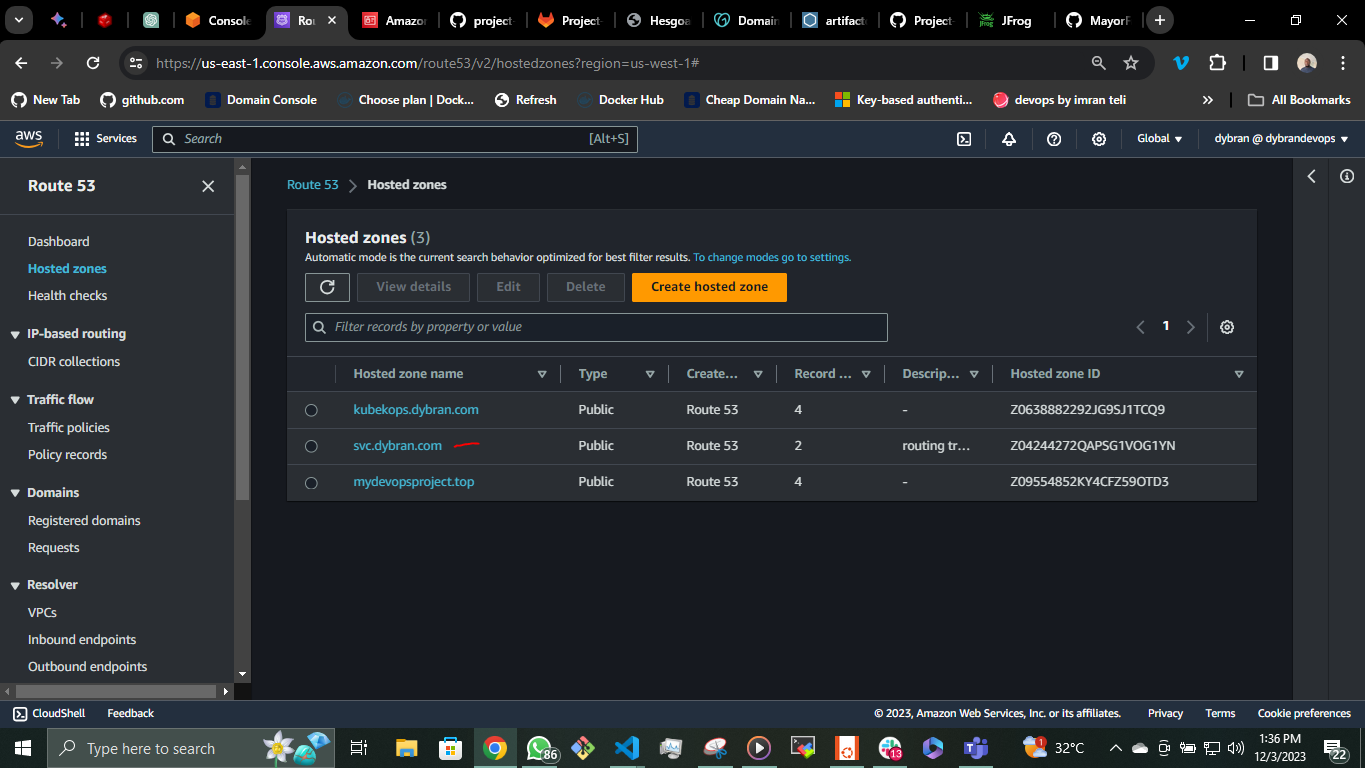
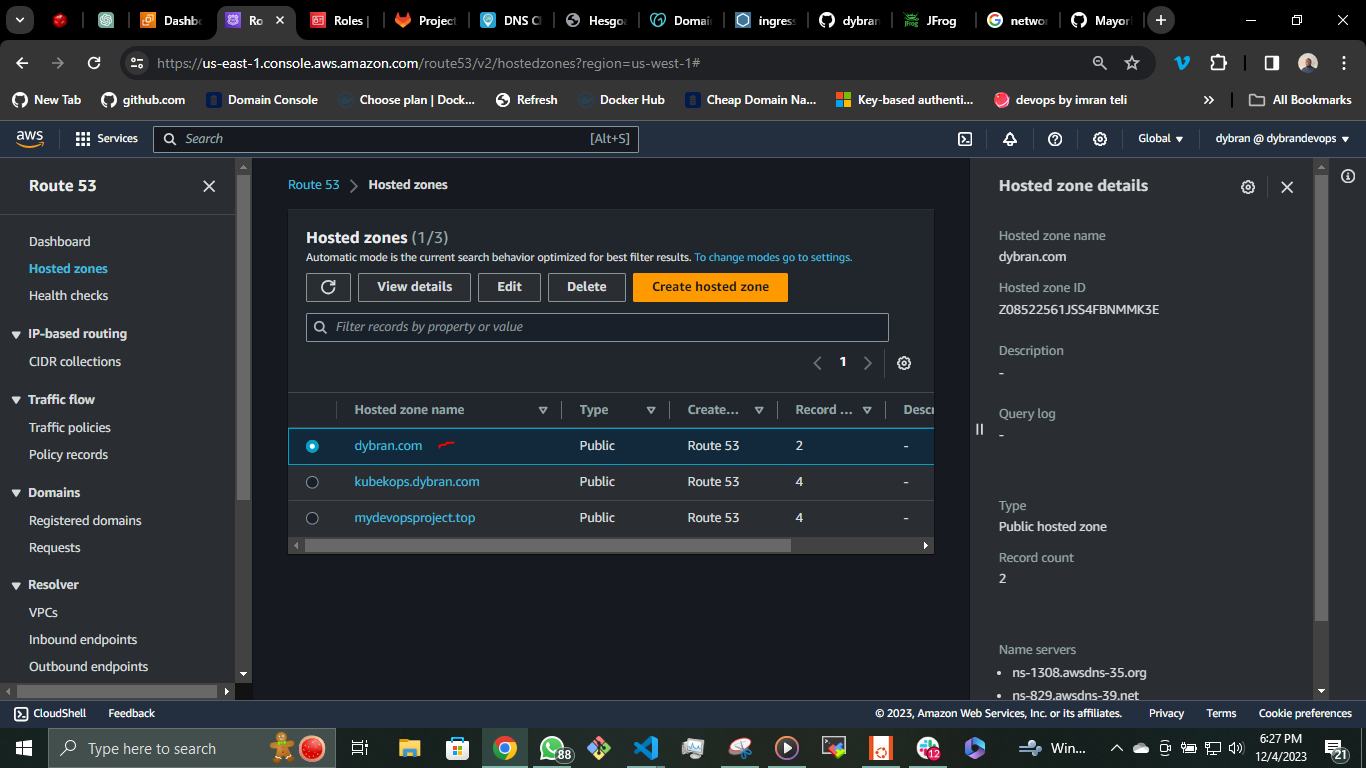
update

diff --git a/Project-25.md b/Project-25.md
@@ -399,6 +399,10 @@ If you go ahead to AWS console, copy the address in the EXTERNAL-IP column, and 
 
 ![](./images/24.PNG)
 
+If you go ahead to AWS console, copy the address in the EXTERNAL-IP column, and search for the loadbalancer, you will see an output like below
+
+![](./images/asa.PNG)
+
 Check the IngressClass that identifies this ingress controller.
 
 `$ kubectl get ingressclass -n ingress-nginx`
@@ -432,7 +436,7 @@ spec:
           service:
             name: artifactory-artifactory-nginx
             port:
-              number: 8082
+              number: 80
 EOF
 ```
 Create the ingress resource in the __tools__ namespace
@@ -465,6 +469,10 @@ You must have purchased a domain name from a domain provider and configured the 
 
 ![](./images/28.PNG)
 
+Ensure that you utilize the Nameservers specified in the hosted zone to set up the Nameservers within your DNS provider, such as GoDaddy, Namecheap, and others.
+
+![](./images/aqqq.PNG)
+![](./images/aq.PNG)
 
 __Create Route53 record__
 
@@ -479,11 +487,32 @@ If opting for the CNAME Method,
 
 Please verify the DNS record's successful propagation. Go to [DNS checker](https://dnschecker.org) and choose __CNAME__ to check the record. Make sure there are green ticks next to each location on the left-hand side. Please note that it may take some time for the changes to propagate.
 
-######![]()
+![](./images/29-1.PNG)
+
+We can also check this using the command
+
+`$ nslookup -type=ns tooling.artifactory.dybran.com`
+
+#########![]()
 
 __AWS Alias Method__
 
 In the create record section, type in the record name, and toggle the alias button to enable an alias. An alias is of A DNS record type which basically routes directly to the load balancer. In the choose endpoint bar, select __Alias__ to Application and Classic Load Balancer.
+
+
+__Accessing the application from the browser__
+
+Accessing the application through your browser
+Presently, our Kubernetes-hosted application is reachable from outside sources. When you visit your domain's specific URL - __tooling.artifactorydybran.com__, the artifactory application should be accessible.
+
+If you use Chrome as your browser, you might encounter a message indicating that the site is reachable but considered insecure. This occurs when the site lacks a trusted TLS/SSL certificate or doesn't possess one at all.
+
+![](./images/30.PNG)
+
+The Nginx Ingress Controller sets up a default __TLS/SSL certificate__. However, it is self-signed and not recognized by browsers, which means it is not trusted. To verify this, click on the __"Not Secure"__ label on the browser.
+
+
+
 
 
 
